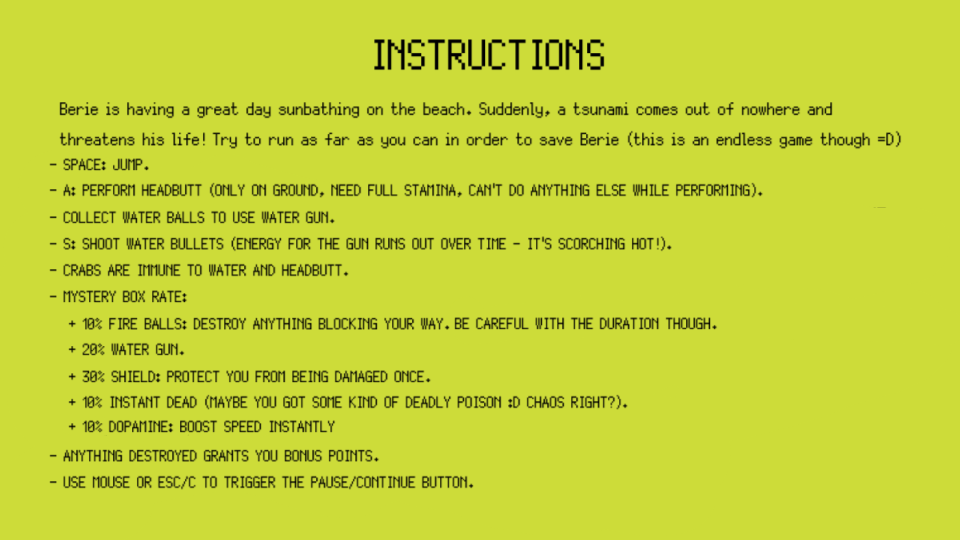
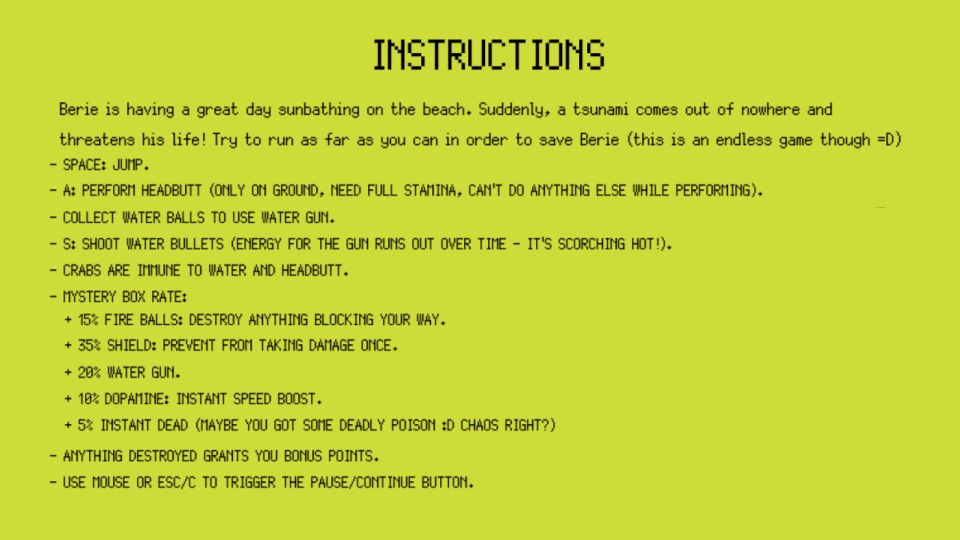
Last commit!
Done!

Changed region(s): [[0.0625, 0.563, 0.75, 0.8]]

diff --git a/game.cpp b/game.cpp
@@ -543,9 +543,9 @@ void getBox(Graphics& graphics, Sound &sound, Character &berie, Obstacle &box, B
     if (checkObstacleCollision(berie, box, box.collect.getCurrentClip())){
         if (!box.dead){
             graphics.playSound(sound.gCollect);
-            switch (rand()%10)
+            switch (rand()%20)
             {
-            case 1: case 2: case 3:
+            case 1: case 2: case 3: case 20: case 19: case 18: case 9:
                 shield.on=true;
                 graphics.playSound(sound.shield);
                 break;
@@ -553,17 +553,17 @@ void getBox(Graphics& graphics, Sound &sound, Character &berie, Obstacle &box, B
                 graphics.playSound(sound.deadSound);
                 berie.status=DEAD;
                 break;
-            case 7:
+            case 7: case 17: case 10:
                 if (fire.on){
                     fire.duration=MAX_POWER;
                 }
                 else fire.on=true;
                 graphics.playSound(sound.fire);
                 break;
-            case 5: case 6:
+            case 5: case 6: case 15: case 16:
                 berie.power=MAX_POWER;
                 break;
-            case 0:
+            case 0: case 13:
                 speedUp+=4;
                 break;
             }

diff --git a/defs.h b/defs.h
@@ -71,10 +71,10 @@ const int CHAR_WIDTH=65;
 
 const int WATER_POS_RANGE=200;
 const int BOX_POS_RANGE=5000;
-const int BIRD_POS_RANGE=300;
-const int CASTLE_POS_RANGE=100;
-const int CRAB_POS_RANGE=500;
-const int OVERRIDE_RANGE=30;
+const int BIRD_POS_RANGE=500;
+const int CASTLE_POS_RANGE=0;
+const int CRAB_POS_RANGE=400;
+const int OVERRIDE_RANGE=40;
 const int BASE_TYPES=2;
 const int MAX_TYPE=5;
 
